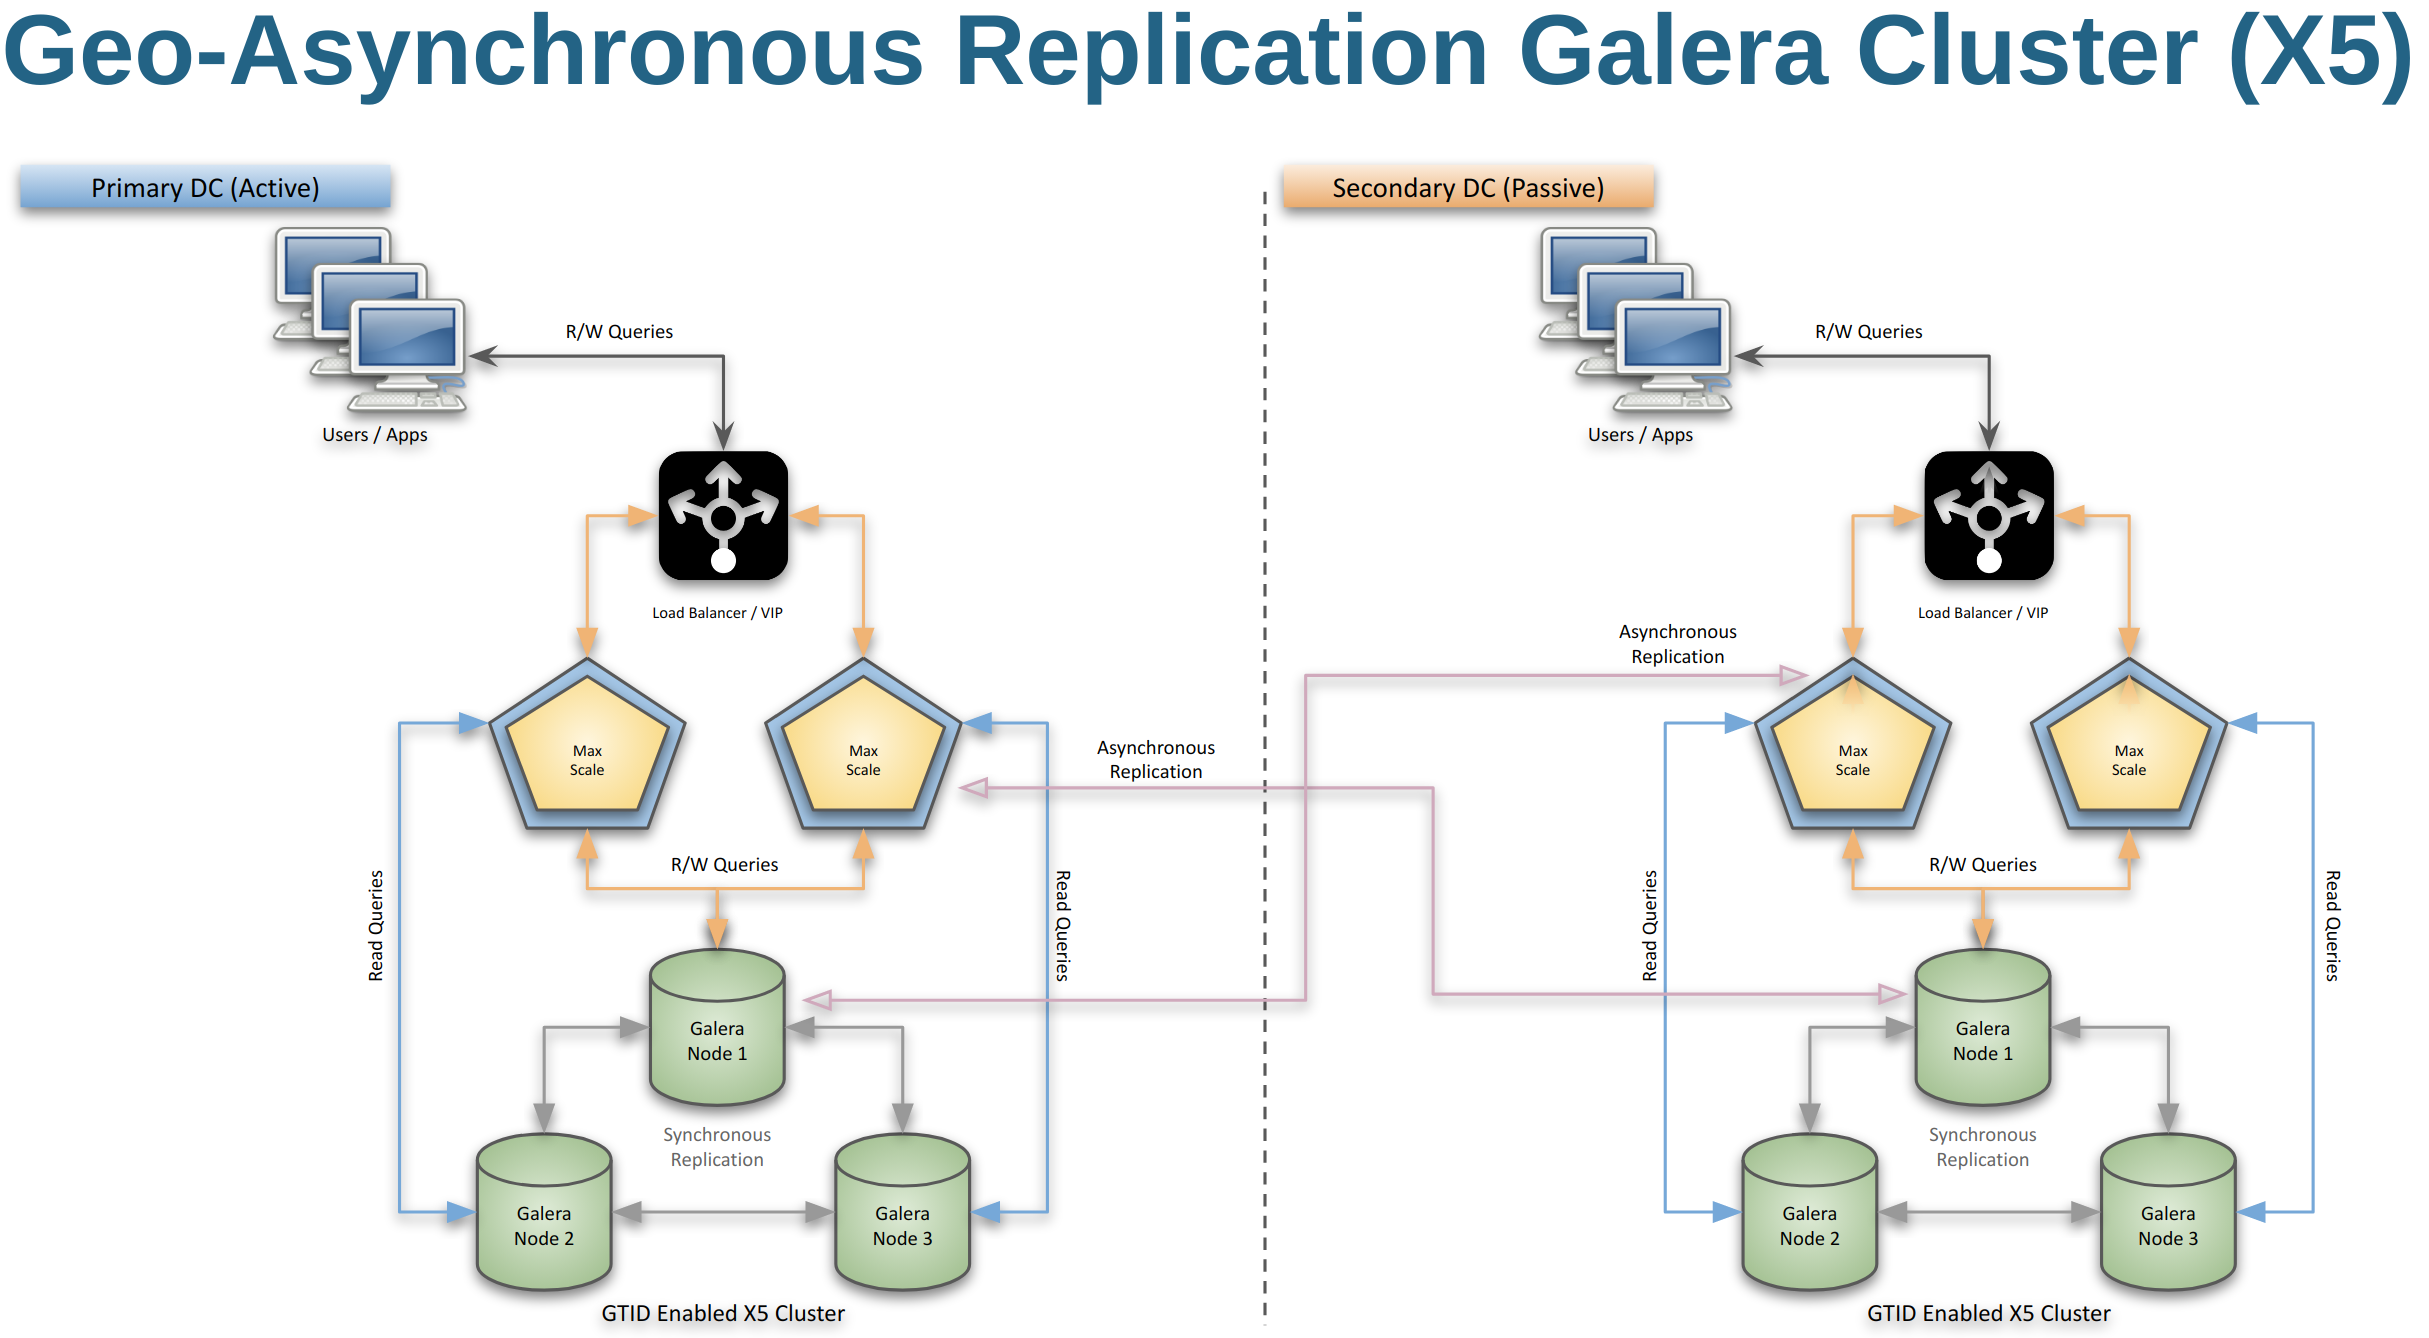
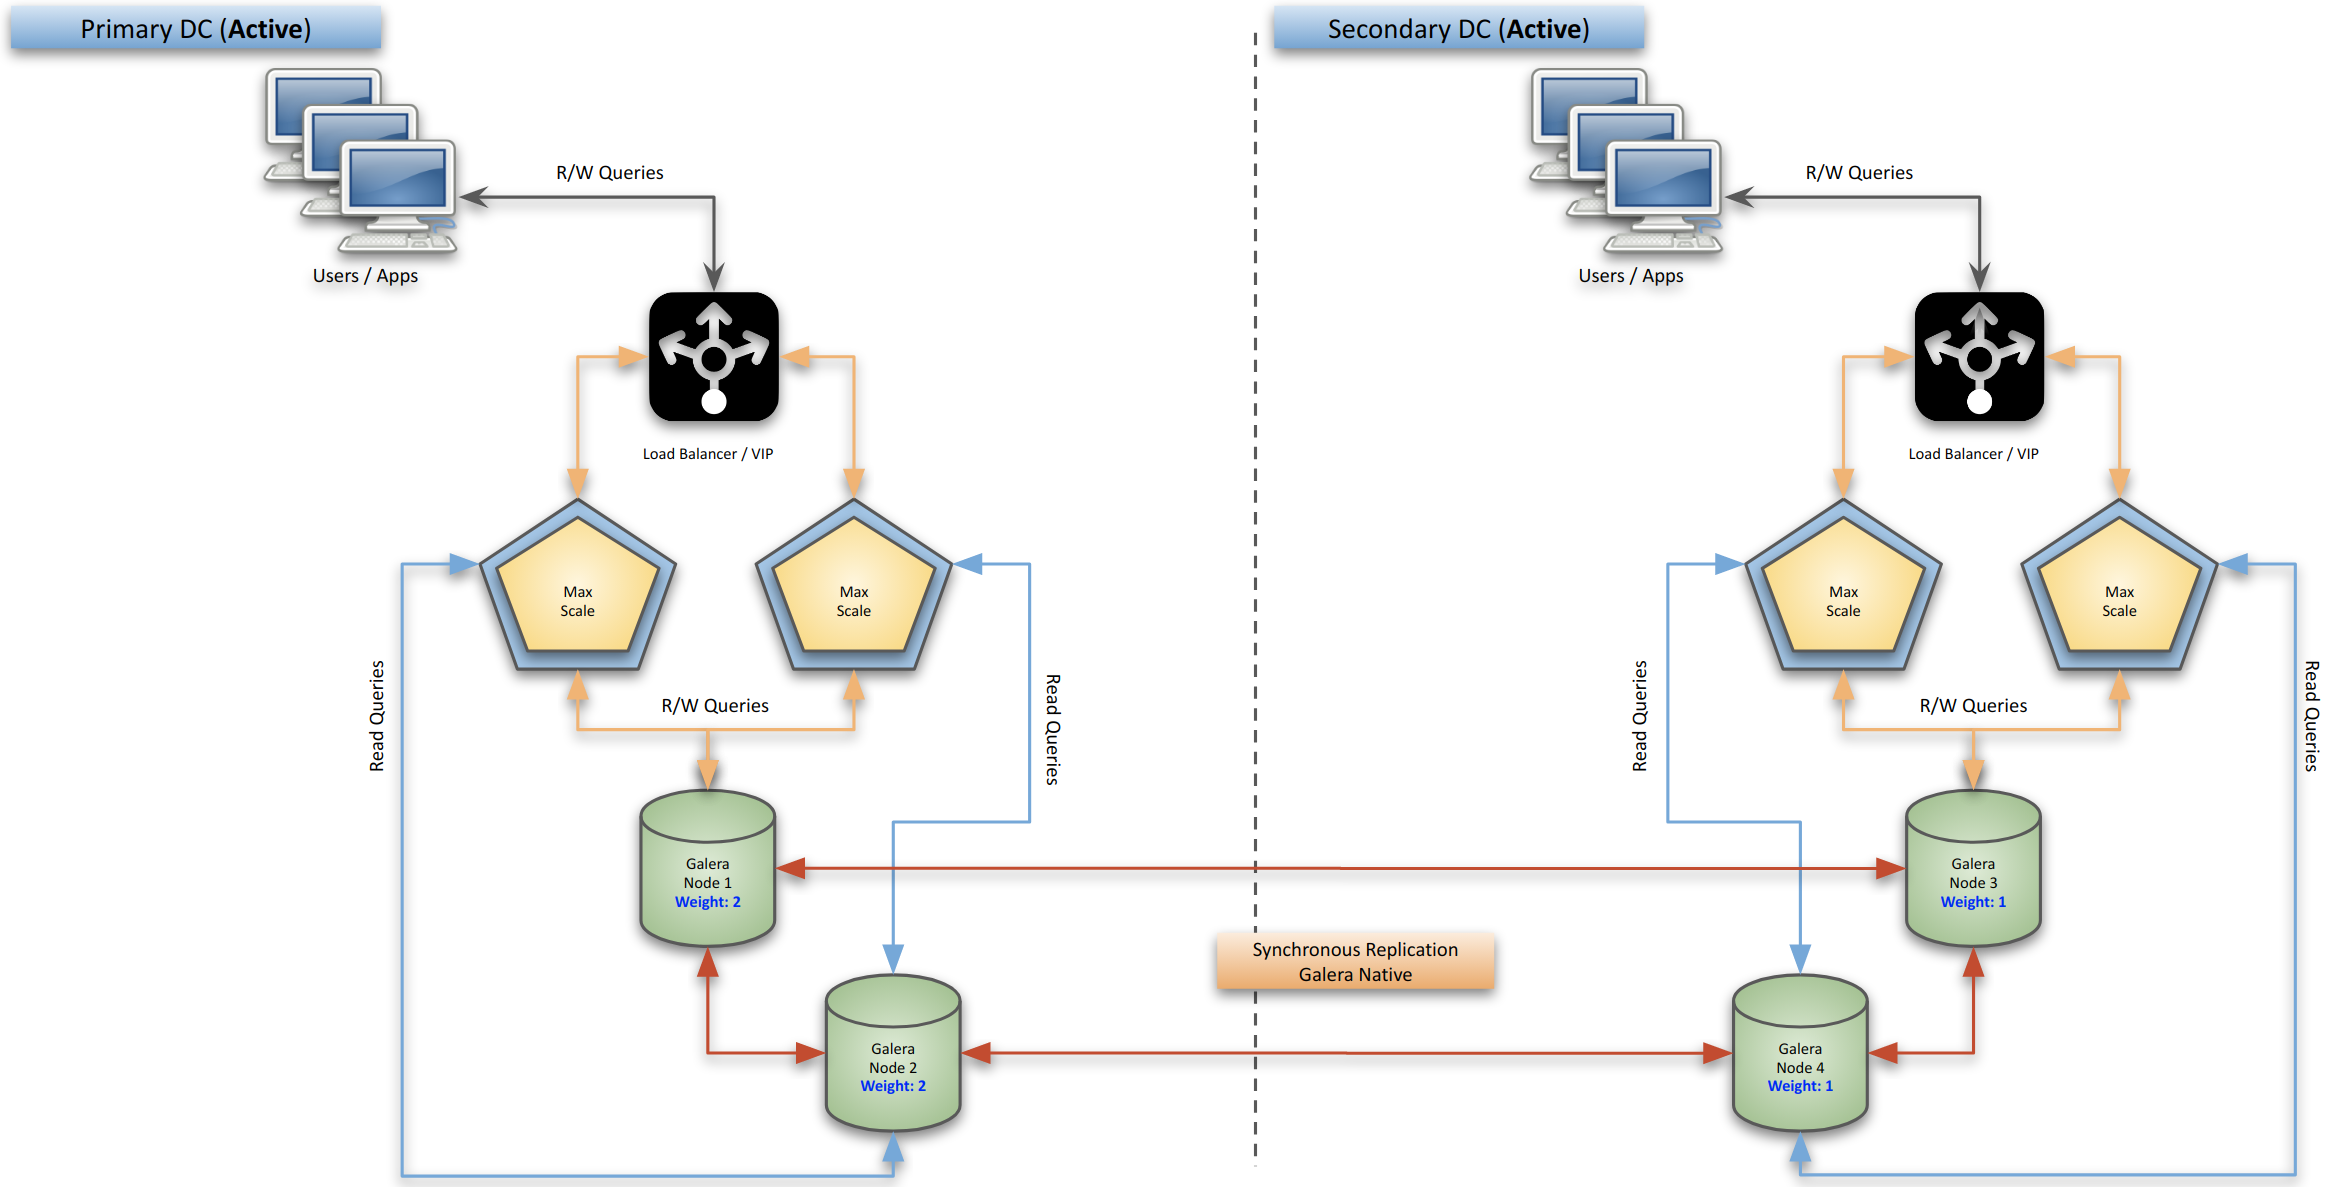
Added additional reference Architecture

diff --git a/MariaDB-10.5-ES-Galera.md b/MariaDB-10.5-ES-Galera.md
@@ -6,14 +6,19 @@ The requirement is simple, setup 2 Galera clusters (3 nodes each) on two data ce
 
 Same way, a reverse replication is is to be set up from the Secondary data center to the primary data cetners using MaxScale binlog router.
 
-***Note:** We will be setting up just 1 MaxScale for each side, process for setting up the second one is identical*
-
-ref: Image-1
-![image info](./Images/GaleraArchitecture-2.png)
+ref: **Image-1**
+![image info](./Images/GaleraArchitecture-1.png)
 
 Reference Architecture using MaxScale's new Binlog router to replicate a 10.5 Galera cluster using asynchronous replication for maximum performance.
 
 A stretched Galera cluster can be setup but if the latency numbers are bad between the two DC, galera cluster's performance will drop. It is recommended to set up two clusters instead using asyhcnronous replication for an **Active/Passive** site setup.
+
+ref: **Image-2**
+![image info](./Images/GaleraArchitecture-2.png)
+
+A stretched galera cluster with 2 nodes on each side, this provides an Active/Active setup and capability to Read/Write anywhere. This architecture uses node weightage on both sides to help achieve Quorum, ideal setup is to use 3 data centers and ODD number of nodes but nost commonly only two data centers are available and this is the way to go. 
+
+***Note:** For this guide, we will be following the `ref: Image-1` as that is more challenging given the most common deployment due to latency issues bertween the data cetnters. Also, we will be ssetting up 2 MaxScale nodes, 1 on each side to keep it as simple as possble*
 
 ## Servers
 
@@ -181,12 +186,12 @@ Referring to the above two configurations:
 - **`wsrep_gtid_domain_id`** needs to be configured the with same value for each cluster.
   - We will be using **`wsrep_gtid_domain_id=70`** for all three nodes in the first cluster.
   - We will be using **`wsrep_gtid_domain_id=80`** for all three ndoes in the second cluster.
-- **`gtid_domain_id`** needs to be setup as different values for each node in the cluster
-  - We will be using **`gtid_domain_id=71`**, **`gtid_domain_id=72`** & **`gtid_domain_id=73`** for all three nodes of the first cluster.
-  - We will be using **`gtid_domain_id=81`**, **`gtid_domain_id=82`** & **`gtid_domain_id=83`** for all three nodes of the second cluster.
 - **`server_id`** needs to be configured the with same value for each cluster.
   - We will be using **`server_id=7000`** for all the three nodes of the first cluster.
   - We will be using **`server_id=8000`** for all the three nodes of the second cluster.
+- **`gtid_domain_id`** needs to be setup as different values for each node in the cluster
+  - We will be using **`gtid_domain_id=71`**, **`gtid_domain_id=72`** & **`gtid_domain_id=73`** for all three nodes of the first cluster.
+  - We will be using **`gtid_domain_id=81`**, **`gtid_domain_id=82`** & **`gtid_domain_id=83`** for all three nodes of the second cluster.
 - **`innodb_buffer_pool_size`** to be calculated at 60% to 70% of the total memory size on each node. sin, since my setup is very small, 1GB RAM for each node, I have calculated 50% instead.
 - 
 ***Note:** the **`wsrep_provider`** points to a different path/file for the Community version as `wsrep_provider=/usr/lib64/galera-4/libgalera_smm.so`*
